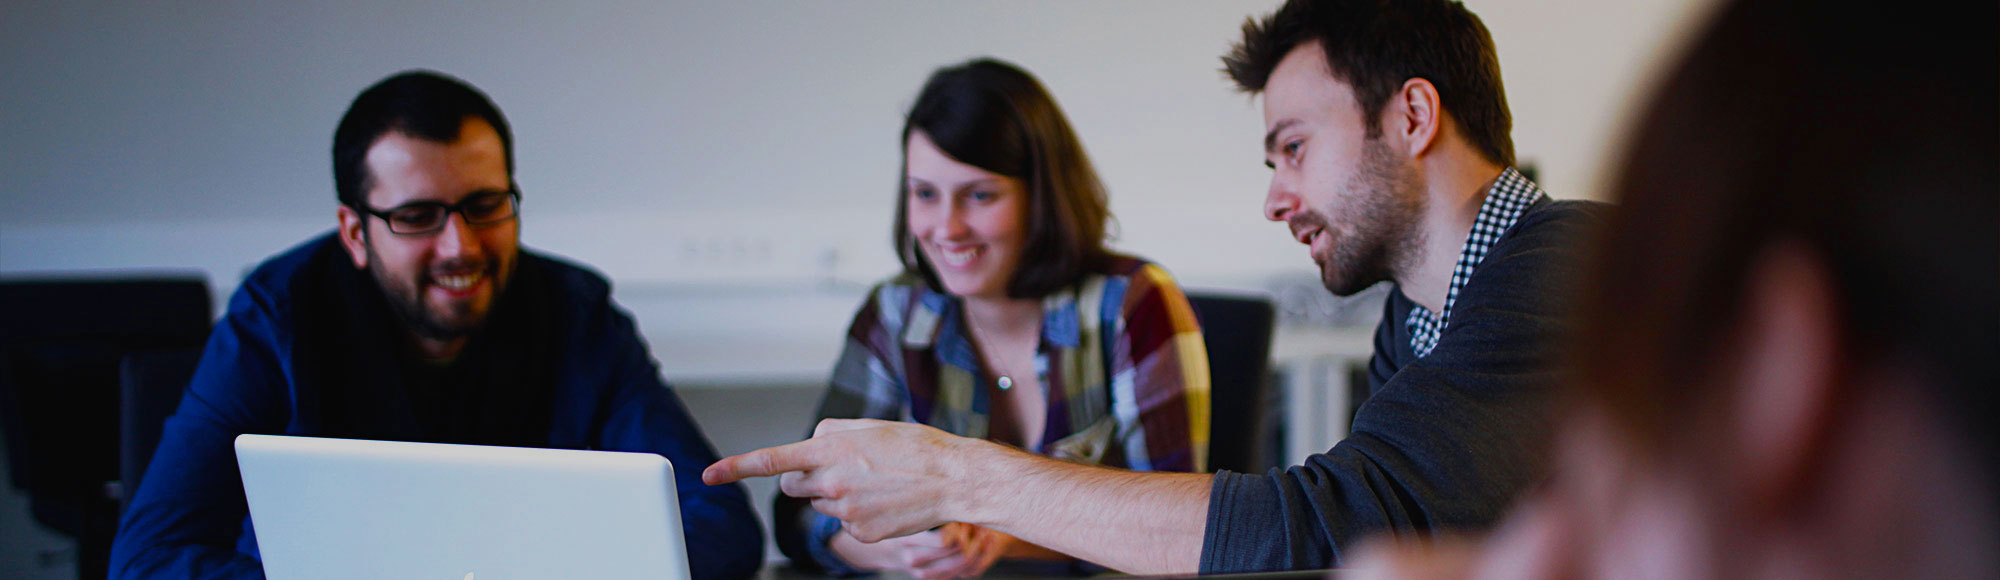
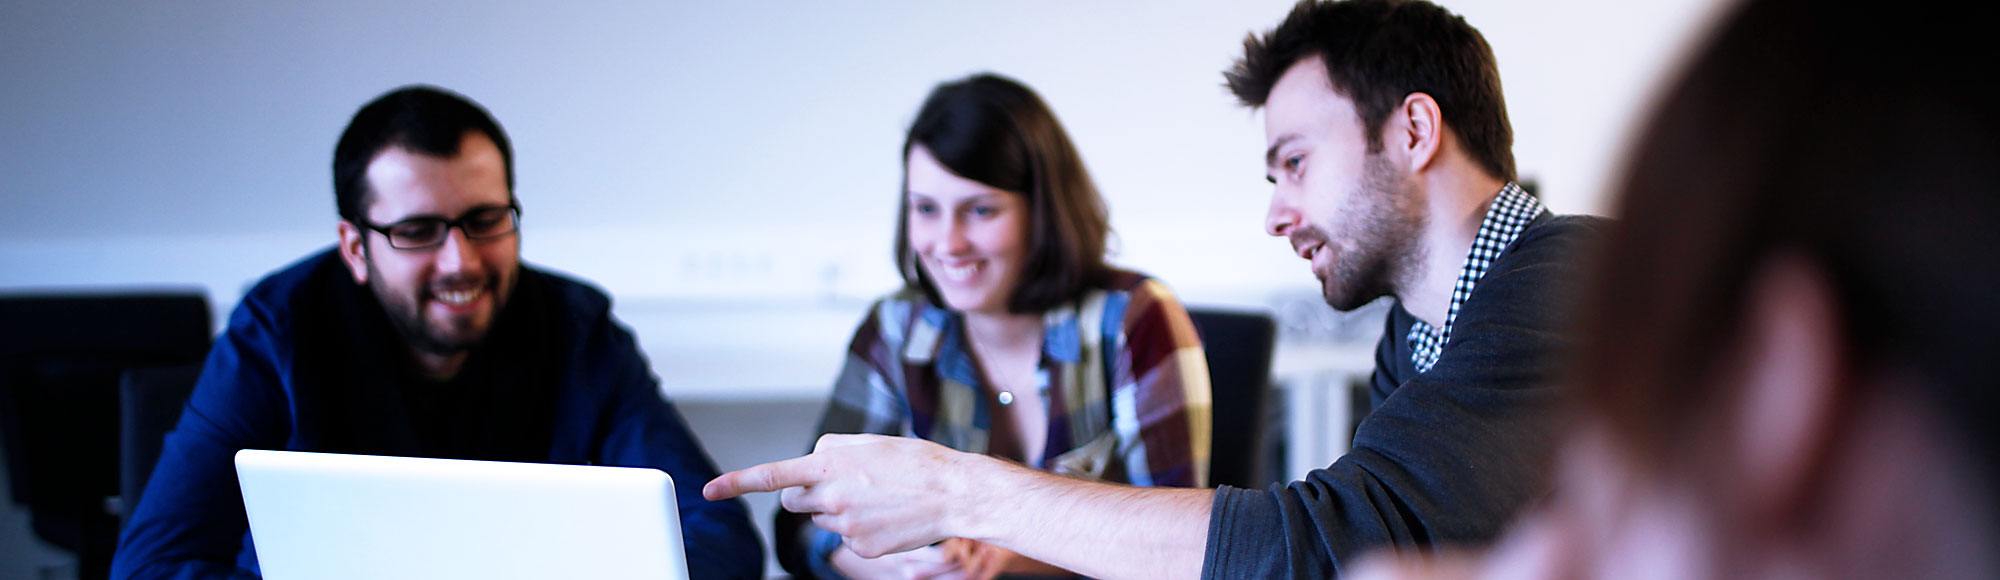
Splitter UPD

diff --git a/studium.html b/studium.html
@@ -161,8 +161,11 @@ Das Studium ist praxisorientiert. In jedem Semester werden in kleinen Teams Proj
       </div>
 
 
-      <div class="splitter" style="background:url(img/studium/splitter1.jpg) center center;">
+      <div class="splitter">
+        <img class="splitterimg" src="img/studium/splitter_1.jpg" />
+        <div class="splitter_cnt">
         <p><span class="cit">„Die englische Sprache ist mittlerweile allgegenwärtig und daher finde ich es sehr wichtig, wertvoll und hilfreich, dass der Studiengang englischsprachig ist.“<span class="splittercit-autor">Rafael Mäuer, Student</span></span></p>
+        </div>
       </div>
 
       </div>
@@ -187,7 +190,7 @@ Das Studium ist praxisorientiert. In jedem Semester werden in kleinen Teams Proj
           <a href="projekte.html" class="button" data-reveal-id="nopagehere">Projekte ansehen</a>
         </div> 
         <div class="large-4 medium-4 columns">
-          <img data-interchange="" src="" alt="img">
+          <img data-interchange="" src="img/studium/interactive-tn_kurse.jpg" alt="img">
           <h3>Kurse</h3>
           <p>Die Wahlpflichtkurse mit Inhalten aus Design, Technik, Management oder Medientheorie verfolgen brandaktuelle Trends und ergänzen die Projektwerkstatt. </p>
           <a href="kurse.html" class="button" data-reveal-id="nopagehere">Kurse durchstöbern</a>
@@ -235,9 +238,11 @@ Das Studium ist praxisorientiert. In jedem Semester werden in kleinen Teams Proj
       </div>
 
      
-     <div class="splitter" style="background:url(img/studium/splitter2.jpg) center center;">
+      <div class="splitter">
+        <img class="splitterimg" src="img/studium/splitter2.jpg" />
+        <div class="splitter_cnt">
         <p><span class="cit">„Das Studium ist perfekt um auch weiterhin selbst kreativ zu werden oder um nebenbei zu jobben.“<span class="splittercit-autor">Stanislav Kulik, Student</span></span><a href="studienverlauf.html" class="button whitebtn" data-reveal-id="nopagehere">Zum Studienverlauf</a></p>
-
+        </div>
       </div>
 
     

diff --git a/index.html b/index.html
@@ -160,7 +160,7 @@
 
 
       <div class="splitter">
-        <img class="splitterimg" src="img/startseite/splitter_3.jpg" />
+        <img class="splitterimg" src="img/startseite/splitter_1.jpg" />
         <div class="splitter_cnt">
         <p><span class="cit">„Der hohe Projektanteil im Studium bereitet mich jetzt schon auf zukünftige berufliche Anforderungen vor.“<span class="splittercit-autor">Marisa Wollner, Studentin</span></span><a href="projekte.html" class="button whitebtn">Mehr spannende Projekte</a></p>
         </div>
@@ -187,7 +187,7 @@
      
 
       <div class="splitter">
-        <img class="splitterimg" src="img/startseite/splitter_3.jpg" />
+        <img class="splitterimg" src="img/startseite/splitter_2.jpg" />
         <div class="splitter_cnt">
         <p><span class="cit">„Die Coachings mit den Professoren sind ein Teil dessen, was das Studium hier so herausragend macht!"<span class="splittercit-autor">Alexander Vonnemann, Student</span></span><a href="kurse.html" class="button whitebtn">Mehr zu den Kursen</a></p>
       </div>
@@ -253,7 +253,7 @@
 
 
       <div class="splitter">
-        <img class="splitterimg" src="img/startseite/splitter_3.jpg" />
+        <img class="splitterimg" src="img/startseite/splitter_4.jpg" />
         <div class="splitter_cnt">
         <p><span class="cit">„Bei IMD-Studierenden weiß man einfach, dass die gängigen Agentur-Methoden bekannt sind und sitzen.“<span class="splittercit-autor">Wolfgang Henseler, Geschäftsführer Sensory-Minds, Offenbach</span></span><a href="berufsausblick.html" class="button whitebtn">Mehr Berichte aus der Wirtschaft</a></p>
       </div>

diff --git a/berufsausblick.html b/berufsausblick.html
@@ -72,7 +72,7 @@
 
     <div id="stagebg">
 
-          <img src="" alt="interactive media design studium">
+          <img src="img/berufsausblick/berufsausblick_header.jpg" alt="interactive media design studium">
 
     </div>
 
@@ -202,7 +202,10 @@
       </div>  
 
       <div class="splitter">
+        <img class="splitterimg" src="img/berufsausblick/splitter_1.jpg" />
+        <div class="splitter_cnt">
         <p><span class="cit">„Das konzeptionelle Denken aus Nutzer- und Unternehmenssicht ist bei Abgängern des Studiengangs IMD sehr gut ausgeprägt. Bei IMD-Studierenden weiß man einfach, dass die gängigen Agentur-Methoden bekannt sind und sitzen.“<span class="splittercit-autor">Wolfgang Henseler, Geschäftsführer Sensory-Minds, Offenbach</span></span></p>
+        </div>
       </div>
 
 
@@ -319,7 +322,10 @@
       </div>
 
       <div class="splitter">
+        <img class="splitterimg" src="img/berufsausblick/splitter_2.jpg" />
+        <div class="splitter_cnt">
         <p><span class="cit">„Durch das Praktikumssemester konnte ich bereits in das Unternehmen hineinschnuppern, in dem ich jetzt arbeite.“<span class="splittercit-autor">Max Mustermann, Student</span></span></p>
+      </div>
       </div>
 
     

diff --git a/bewerbung.html b/bewerbung.html
@@ -210,7 +210,10 @@
 
 
       <div class="splitter">
+        <img class="splitterimg" src="img/bewerbung/splitter_1.jpg" />
+        <div class="splitter_cnt">
          <p><span class="cit">„Die Eignungsprüfung war viel unkomplizierter als ich gedacht hatte.“<span class="splittercit-autor">Laura Chiesa, Studentin</span>
+         </div>
       </div>
 
 

diff --git a/css/imd.css b/css/imd.css
@@ -6020,7 +6020,7 @@ header#pagenav a {
   margin: auto;
   filter: alpha(opacity=50);
   filter: progid:DXImageTransform.Microsoft.Alpha(opacity=0.5);
-  opacity: .50; }
+  opacity: .70; }
 
 #content .splitter p .cit, #content .splitter p .splittercit-autor {
   max-width: 800px;

diff --git a/scss/theme_base.scss b/scss/theme_base.scss
@@ -359,7 +359,7 @@ header#pagenav a {
   margin: auto;
   filter:alpha(opacity=50);
   filter: progid:DXImageTransform.Microsoft.Alpha(opacity=0.5);
-  opacity:.50;
+  opacity:.70;
 }
 #content .splitter p .cit, #content .splitter p .splittercit-autor {
   max-width:800px;
